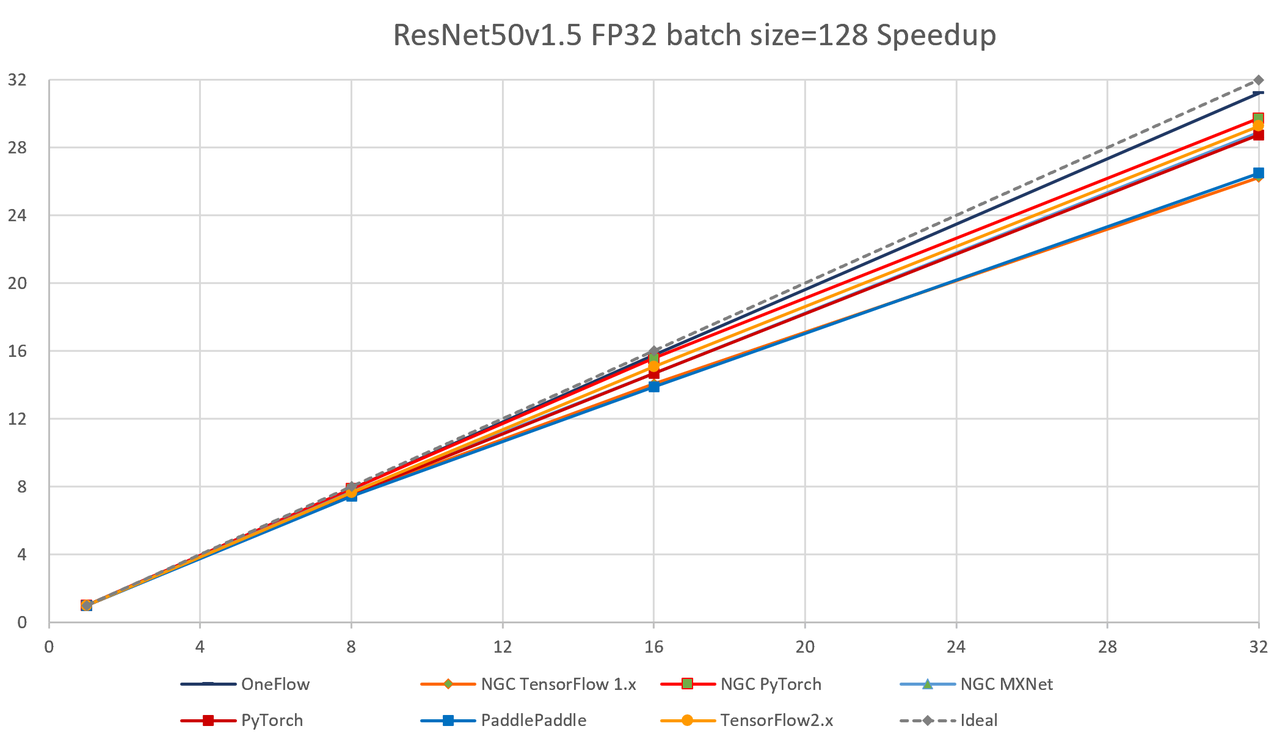
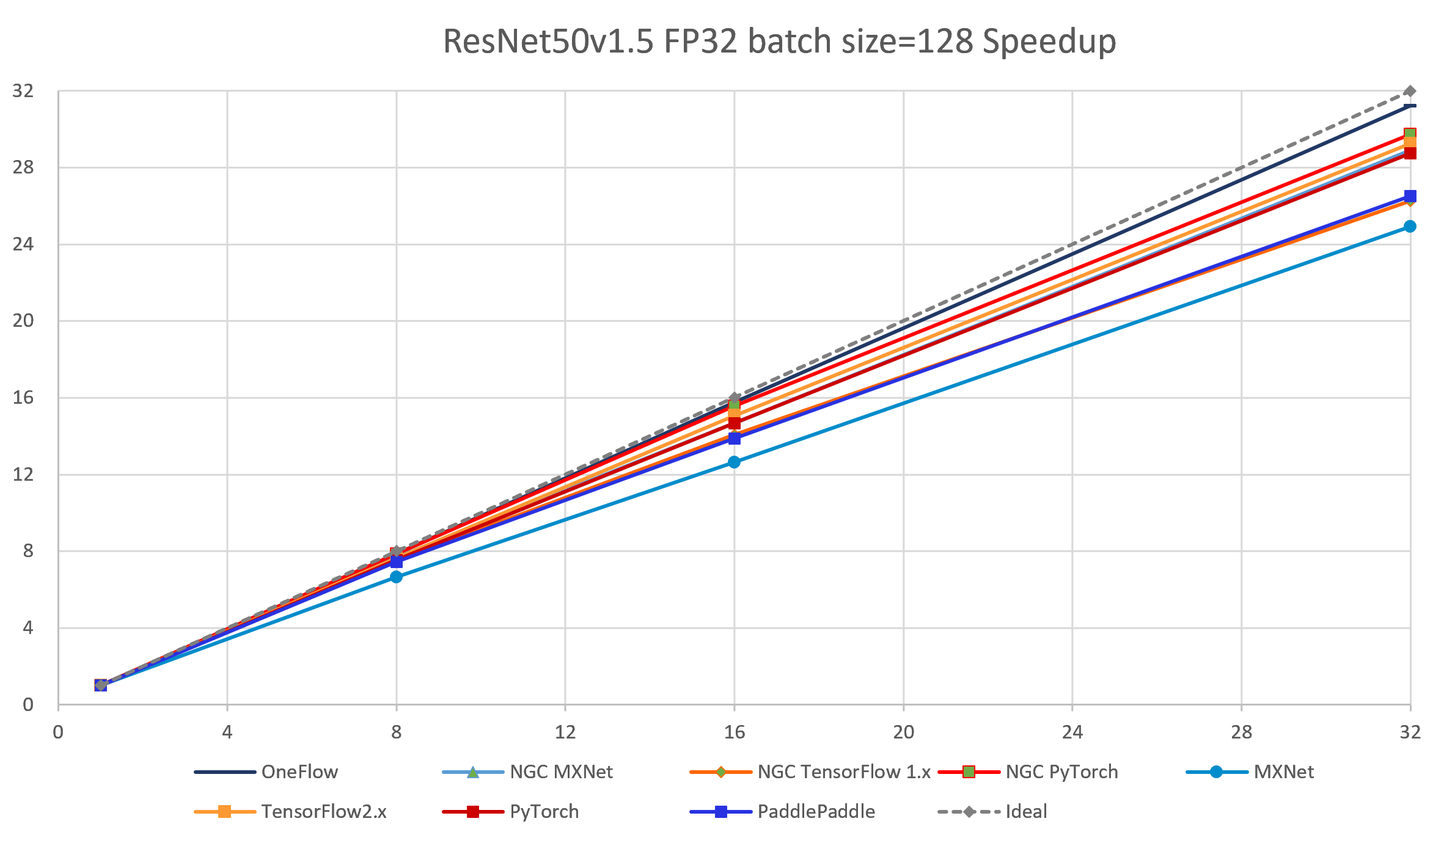
update MXNet official ResNet50 benchmark result in report

diff --git a/reports/dlperf_benchmark_test_report_v1.md b/reports/dlperf_benchmark_test_report_v1.md
@@ -44,25 +44,26 @@ Legend:
 
 ### ResNet50 V1.5
 
-| Framework                                                    | Version         | Docker From                             | DNN Model Sources                                            | Features             |
-| ------------------------------------------------------------ | --------------- | --------------------------------------- | ------------------------------------------------------------ | -------------------- |
-| [OneFlow](https://github.com/Oneflow-Inc/oneflow/tree/v0.2.0) | 0.2.0           | -                                       | [OneFlow-Benchmark](https://github.com/Oneflow-Inc/OneFlow-Benchmark/tree/v0.2.0/Classification/cnns) | official             |
-| [NGC TensorFlow 1.x](https://ngc.nvidia.com/catalog/containers/nvidia:tensorflow/tags) | 1.15.2          | nvcr.io/nvidia/tensorflow:20.03-tf1-py3 | [DeepLearningExamples/TensorFLow](https://github.com/NVIDIA/DeepLearningExamples/tree/fed7ba99cde958fda12c9e81d12b3d7e738e0590/TensorFlow/Classification/ConvNets/resnet50v1.5) | DALI+Horovod+XLA     |
-| [NGC PyTorch](https://ngc.nvidia.com/catalog/containers/nvidia:pytorch/tags) | 1.5.0a0+8f84ded | nvcr.io/nvidia/pytorch:20.03-py3        | [DeepLearningExamples/PyTorch](https://github.com/NVIDIA/DeepLearningExamples/tree/46ff3707e04683e41b79af0f94a74e45f8016786/PyTorch/Classification/ConvNets/resnet50v1.5) | DALI+APEX            |
-| [NGC MXNet](https://ngc.nvidia.com/catalog/containers/nvidia:mxnet/tags) | 1.6.0           | nvcr.io/nvidia/mxnet:20.03-py3          | [DeepLearningExamples/MxNet](https://github.com/NVIDIA/DeepLearningExamples/tree/e470c2150abf4179f873cabad23945bbc920cc5f/MxNet/Classification/RN50v1.5) | DALI+Horovod         |
-| [PyTorch](https://github.com/pytorch/pytorch/tree/v1.6.0)    | 1.6.0           | -                                       | [pytorch/examples](https://github.com/pytorch/examples/tree/4b119d735b802453479d739bf823f3f7d8d5d422/imagenet) | official             |
-| [PaddlePaddle](https://github.com/PaddlePaddle/Paddle/tree/v1.8.3) | 1.8.3.post107   | -                                       | [PaddleCV](https://github.com/PaddlePaddle/models/tree/release/1.8/PaddleCV/image_classification) | official / with DALI |
-| [TensorFlow 2.x](https://github.com/tensorflow/tensorflow/tree/v2.3.0) | 2.3.0           | -                                       | [TensorFlow-models](https://github.com/tensorflow/models/tree/r2.3.0/official/vision/image_classification) | official             |
+| Framework                                                    | Version         | Docker From                             | DNN Model Sources                                            | Features         |
+| ------------------------------------------------------------ | --------------- | --------------------------------------- | ------------------------------------------------------------ | ---------------- |
+| [OneFlow](https://github.com/Oneflow-Inc/oneflow/tree/v0.2.0) | 0.2.0           | -                                       | [OneFlow-Benchmark](https://github.com/Oneflow-Inc/OneFlow-Benchmark/tree/v0.2.0/Classification/cnns) | -                |
+| [NGC MXNet](https://ngc.nvidia.com/catalog/containers/nvidia:mxnet/tags) | 1.6.0           | nvcr.io/nvidia/mxnet:20.03-py3          | [DeepLearningExamples/MxNet](https://github.com/NVIDIA/DeepLearningExamples/tree/e470c2150abf4179f873cabad23945bbc920cc5f/MxNet/Classification/RN50v1.5) | DALI+Horovod     |
+| [NGC TensorFlow 1.x](https://ngc.nvidia.com/catalog/containers/nvidia:tensorflow/tags) | 1.15.2          | nvcr.io/nvidia/tensorflow:20.03-tf1-py3 | [DeepLearningExamples/TensorFLow](https://github.com/NVIDIA/DeepLearningExamples/tree/fed7ba99cde958fda12c9e81d12b3d7e738e0590/TensorFlow/Classification/ConvNets/resnet50v1.5) | DALI+Horovod+XLA |
+| [NGC PyTorch](https://ngc.nvidia.com/catalog/containers/nvidia:pytorch/tags) | 1.5.0a0+8f84ded | nvcr.io/nvidia/pytorch:20.03-py3        | [DeepLearningExamples/PyTorch](https://github.com/NVIDIA/DeepLearningExamples/tree/46ff3707e04683e41b79af0f94a74e45f8016786/PyTorch/Classification/ConvNets/resnet50v1.5) | DALI+APEX        |
+| [MXNet](https://github.com/apache/incubator-mxnet/releases/tag/1.6.0) | 1.6.0           | -                                       | [gluon-cv](https://github.com/dmlc/gluon-cv/blob/f9a8a284b8/scripts/classification/imagenet/README.md) | Horovod          |
+| [TensorFlow 2.x](https://github.com/tensorflow/tensorflow/tree/v2.3.0) | 2.3.0           | -                                       | [TensorFlow-models](https://github.com/tensorflow/models/tree/r2.3.0/official/vision/image_classification) | -                |
+| [PyTorch](https://github.com/pytorch/pytorch/tree/v1.6.0)    | 1.6.0           | -                                       | [pytorch/examples](https://github.com/pytorch/examples/tree/4b119d735b802453479d739bf823f3f7d8d5d422/imagenet) | -                |
+| [PaddlePaddle](https://github.com/PaddlePaddle/Paddle/tree/v1.8.3) | 1.8.3.post107   | -                                       | [PaddleCV](https://github.com/PaddlePaddle/models/tree/release/1.8/PaddleCV/image_classification) | DALI             |
 
 ### BERT Base Pretrain
 
 | Framework                                                    | Version         | Docker From                             | DNN Model Sources                                            | Features |
 | ------------------------------------------------------------ | --------------- | --------------------------------------- | ------------------------------------------------------------ | -------- |
-| [OneFlow](https://github.com/Oneflow-Inc/oneflow/tree/v0.2.0) | 0.2.0           | -                                       | [OneFlow-Benchmark](https://github.com/Oneflow-Inc/OneFlow-Benchmark/tree/v0.2.0/LanguageModeling/BERT) | official |
+| [OneFlow](https://github.com/Oneflow-Inc/oneflow/tree/v0.2.0) | 0.2.0           | -                                       | [OneFlow-Benchmark](https://github.com/Oneflow-Inc/OneFlow-Benchmark/tree/v0.2.0/LanguageModeling/BERT) | -        |
 | [NGC TensorFlow 1.x](https://ngc.nvidia.com/catalog/containers/nvidia:tensorflow/tags) | 1.15.2          | nvcr.io/nvidia/tensorflow:20.03-tf1-py3 | [DeepLearningExamples/TensorFlow](https://github.com/NVIDIA/DeepLearningExamples/tree/fed7ba99cde958fda12c9e81d12b3d7e738e0590/TensorFlow/LanguageModeling/BERT) | Horovod  |
 | [NGC PyTorch](https://ngc.nvidia.com/catalog/containers/nvidia:pytorch/tags) | 1.5.0a0+8f84ded | nvcr.io/nvidia/pytorch:20.03-py3        | [DeepLearningExamples/PyTorch](https://github.com/NVIDIA/DeepLearningExamples/tree/26c26761042c0e352238add07f0074e87ac66023/PyTorch/LanguageModeling/BERT) | APEX     |
 | [MXNet](https://github.com/apache/incubator-mxnet/tree/1.6.0) | 1.6.0           | -                                       | [gluon-nlp](https://github.com/dmlc/gluon-nlp/tree/7b7bf60259e28b3bf1f4d70569a7e5c18e2f4b3e/scripts/bert) | Horovod  |
-| [PaddlePaddle](https://github.com/PaddlePaddle/Paddle/tree/v1.8.3) | 1.8.3.post107   | -                                       | [PaddleNLP](https://github.com/PaddlePaddle/models/tree/release/1.8/PaddleNLP/pretrain_language_models/BERT) | official |
+| [PaddlePaddle](https://github.com/PaddlePaddle/Paddle/tree/v1.8.3) | 1.8.3.post107   | -                                       | [PaddleNLP](https://github.com/PaddlePaddle/models/tree/release/1.8/PaddleNLP/pretrain_language_models/BERT) | -        |
 
 P.S.  In features:
 
@@ -83,14 +84,14 @@ P.S.  In features:
 
 #### FP32, batch size = 128
 
-| node num | device num | [OneFlow](../OneFlow) | [NGC<br>TensorFlow 1.x](../NVIDIADeepLearningExamples/TensorFlow/Classification/ConvNets/resnet50v1.5) | [NGC<br>PyTorch](../NVIDIADeepLearningExamples/PyTorch/resnet50v1.5) | [NGC<br>MXNet](../NVIDIADeepLearningExamples/MxNet/Classification/RN50v1.5) | [PyTorch](../PyTorch/resnet50v1.5) | [PaddlePaddle](../PaddlePaddle/resnet50v1.5) | [TensorFlow 2.x](../TensorFlow/resnet50v1.5) |
-| -------- | ---------- | --------------------- | ------------------------------------------------------------ | ------------------------------------------------------------ | ------------------------------------------------------------ | ---------------------------------- | -------------------------------------------- | -------------------------------------------- |
-| 1        | 1          | 397.64                | 362.44                                                       | 367.29                                                       | 392.24                                                       | 348.62                             | 352.72                                       | 321.80                                       |
-| 1        | 8          | 3130.34               | 2721.98                                                      | 2887.65                                                      | 3006.98                                                      | 2632.93                            | 2625.38                                      | 2458.74                                      |
-| 2        | 16         | 6260.30               | 5099.42                                                      | 5716.79                                                      | 5758.49                                                      | 5115.40                            | 4895.27                                      | 4849.68                                      |
-| 4        | 32         | 12411.97              | 9514.64                                                      | 10917.09                                                     | 11331.93                                                     | 10021.29                           | 9348.17                                      | 9418.44                                      |
+| node num | device num | [OneFlow](../OneFlow) | [NGC<br/>MXNet](../NVIDIADeepLearningExamples/MxNet/Classification/RN50v1.5) | [NGC<br>TensorFlow 1.x](../NVIDIADeepLearningExamples/TensorFlow/Classification/ConvNets/resnet50v1.5) | [NGC<br>PyTorch](../NVIDIADeepLearningExamples/PyTorch/resnet50v1.5) | [MXNet](../MxNet/Classification/RN50v1b) | [TensorFlow 2.x](../TensorFlow/resnet50v1.5) | [PyTorch](../PyTorch/resnet50v1.5) | [PaddlePaddle](../PaddlePaddle/resnet50v1.5) |
+| -------- | ---------- | --------------------- | ------------------------------------------------------------ | ------------------------------------------------------------ | ------------------------------------------------------------ | ---------------------------------------- | -------------------------------------------- | ---------------------------------- | -------------------------------------------- |
+| 1        | 1          | 397.64                | 392.24                                                       | 362.44                                                       | 367.29                                                       | 384.19                                   | 321.80                                       | 348.62                             | 352.72                                       |
+| 1        | 8          | 3130.34               | 3006.98                                                      | 2721.98                                                      | 2887.65                                                      | 2556.03                                  | 2458.74                                      | 2632.93                            | 2625.38                                      |
+| 2        | 16         | 6260.30               | 5758.49                                                      | 5099.42                                                      | 5716.79                                                      | 4855.34                                  | 4849.68                                      | 5115.40                            | 4895.27                                      |
+| 4        | 32         | 12411.97              | 11331.93                                                     | 9514.64                                                      | 10917.09                                                     | 9579.74                                  | 9418.44                                      | 10021.29                           | 9348.17                                      |
 
-The following images show throughput and speedup of 6 implementations of ResNet50 V1.5.
+The following images show throughput and speedup of 8 implementations of ResNet50 V1.5.
 
 ![r50_fp32_bz128_throughput.png](imgs/r50_fp32_bz128_throughput.png)
 
@@ -98,14 +99,14 @@ The following images show throughput and speedup of 6 implementations of ResNet5
 
 #### AMP, batch size = 256
 
-| node num | device num | [OneFlow](../OneFlow) | [NGC<br>TensorFlow 1.x<br>bsz=224](../NVIDIADeepLearningExamples/TensorFlow/Classification/ConvNets/resnet50v1.5) | [NGC<br>TensorFlow 1.x<br>w/XLA<br>bsz=224](../NVIDIADeepLearningExamples/TensorFlow/Classification/ConvNets/resnet50v1.5) | [NGC<br>PyTorch](../NVIDIADeepLearningExamples/PyTorch/resnet50v1.5) | [NGC<br>MXNet](../NVIDIADeepLearningExamples/MxNet/Classification/RN50v1.5) | [PaddlePaddle<br>bsz=224](../PaddlePaddle/resnet50v1.5) | [PaddlePaddle<br>w/DALI<br>bsz=196](../PaddlePaddle/resnet50v1.5)<sup>[1]</sup> | [TensorFlow 2.x](../TensorFlow/resnet50v1.5) |
-| -------- | ---------- | --------------------- | ------------------------------------------------------------ | ------------------------------------------------------------ | ------------------------------------------------------------ | ------------------------------------------------------------ | ------------------------------------------------------- | ------------------------------------------------------------ | -------------------------------------------- |
-| 1        | 1          | 1472.72               | 945.18                                                       | 1198.55                                                      | 802.9                                                        | 1393.87                                                      | 1034.64                                                 | 887.17                                                       | 1075.27                                      |
-| 1        | 8          | 10629.32              | 6903.42                                                      | 8588.45                                                      | 6154.66                                                      | 9621.31                                                      | 4380.66                                                 | 6862.17                                                      | 6898.00                                      |
-| 2        | 16         | 17920.40              | 12021.09                                                     | 14931.03                                                     | 11991.94                                                     | 16219.03                                                     | 6358.43                                                 | 6018.46                                                      | 9870.15                                      |
-| 4        | 32         | 33141.02              | 24734.22                                                     | 29171.69                                                     | 22551.16                                                     | 30713.68                                                     | 10633.22                                                | 11617.57                                                     | 19314.31                                     |
+| node num | device num | [OneFlow](../OneFlow) | [NGC<br/>MXNet](../NVIDIADeepLearningExamples/MxNet/Classification/RN50v1.5) | [NGC<br>TensorFlow 1.x<br>w/XLA<br>bsz=224](../NVIDIADeepLearningExamples/TensorFlow/Classification/ConvNets/resnet50v1.5) | [NGC<br/>TensorFlow 1.x<br/>bsz=224](../NVIDIADeepLearningExamples/TensorFlow/Classification/ConvNets/resnet50v1.5) | [NGC<br>PyTorch](../NVIDIADeepLearningExamples/PyTorch/resnet50v1.5) | [MXNet](../MxNet/Classification/RN50v1b) | [TensorFlow 2.x](../TensorFlow/resnet50v1.5) | [PaddlePaddle<br/>w/DALI<br/>bsz=196](../PaddlePaddle/resnet50v1.5)<sup>[1]</sup> |
+| -------- | ---------- | --------------------- | ------------------------------------------------------------ | ------------------------------------------------------------ | ------------------------------------------------------------ | ------------------------------------------------------------ | ---------------------------------------- | -------------------------------------------- | ------------------------------------------------------------ |
+| 1        | 1          | 1472.72               | 1393.87                                                      | 1198.55                                                      | 945.18                                                       | 802.9                                                        | 833.65                                   | 1075.27                                      | 887.17                                                       |
+| 1        | 8          | 10629.32              | 9621.31                                                      | 8588.45                                                      | 6903.42                                                      | 6154.66                                                      | 2908.88                                  | 6898.00                                      | 6862.17                                                      |
+| 2        | 16         | 17920.40              | 16219.03                                                     | 14931.03                                                     | 12021.09                                                     | 11991.94                                                     | 5451.27                                  | 9870.15                                      | 6018.46                                                      |
+| 4        | 32         | 33141.02              | 30713.68                                                     | 29171.69                                                     | 24734.22                                                     | 22551.16                                                     | 10565.55                                 | 19314.31                                     | 11617.57                                                     |
 
-[1]: The AMP throughput 10633.22 img/s of PaddlePaddle is obtained with **bsz = 224** and **without DALI**, because when bsz = 256 OOM will be encountered. The throughput 11617.57 img/s is obtained with **bsz = 196** and **with** [**DALI-paddle plug-in**](https://github.com/PaddlePaddle/models/tree/release/1.8/PaddleCV/image_classification#dali预处理) because using DALI will occupy more GPU device memory, so bsz = 224 or 256 both encounters OOM. The official data [28594 img/s](https://github.com/PaddlePaddle/models/tree/release/1.8/PaddleCV/image_classification#混合精度训练) provided by PaddlePaddle is tested on **V100 32G** and the PaddlePaddle docker image with DALI not released, so we cannot replicate this result. If anyone can help us improve PaddlePaddle test results, please contact us by issue.
+[1]: The throughput 11617.57 img/s is obtained with **bsz = 196** and **with** [**DALI-paddle plug-in**](https://github.com/PaddlePaddle/models/tree/release/1.8/PaddleCV/image_classification#dali预处理) because using DALI will occupy more GPU device memory, so bsz = 224 or 256 both encounters OOM. The official data [28594 img/s](https://github.com/PaddlePaddle/models/tree/release/1.8/PaddleCV/image_classification#混合精度训练) provided by PaddlePaddle is tested on **V100 32G** and the PaddlePaddle docker image with DALI not released, so we cannot replicate this result. If anyone can help us improve PaddlePaddle test results, please contact us by issue.
 
 ![r50_amp_bz256_throughput.png](imgs/r50_amp_bz256_throughput.png)
 

diff --git a/README.md b/README.md
@@ -82,7 +82,7 @@ To get a continuous and stable output, first several training steps are ignored.
 - `PaddlePaddle/`: holds the reproducible scripts and test reports for DNN models from [PaddlePaddle official benchmark](https://github.com/PaddlePaddle/models/tree/release/1.8);  
 - `TensorFlow/`: holds the reproducible scripts and test reports for DNN models from [TensorFlow 2.x official benchmark](https://github.com/tensorflow/models/tree/r2.3.0);
 - `PyTorch/`: holds the reproducible scripts and test reports for DNN models from [PyTorch official benchmark](https://github.com/PyTorch/examples/tree/49ec0bd72b85be55579ae8ceb278c66145f593e1);
-- `MxNet/`: holds the reproducible scripts and test reports for DNN models from [gluon-nlp](https://github.com/dmlc/gluon-nlp) repo;
+- `MxNet/`: holds the reproducible scripts and test reports for DNN models from [gluon-nlp](https://github.com/dmlc/gluon-nlp)  and [gluon-cv](https://github.com/dmlc/gluon-cv);
 - `reports`: holds rounds of DNN's benchmark test reports.
 
 ## Summary of Latest Test Results
@@ -106,16 +106,17 @@ This difference makes ResNet50 v1.5 slightly more accurate (~0.5% top1) than v1,
 | Framework                                                    | Source                                                       | FP32 throughput<br>(img/s)  bsz=128                          | FP32 speedup<br>bsz=128 | AMP throughput<br>(img/s) bsz=256                   | AMP speedup<br>bsz=256         |
 | :----------------------------------------------------------- | ------------------------------------------------------------ | ------------------------------------------------------------ | ----------------------- | --------------------------------------------------- | ------------------------------ |
 | [OneFlow](https://github.com/Oneflow-Inc/oneflow/tree/v0.2.0) | [OneFlow-Benchmark](https://github.com/Oneflow-Inc/OneFlow-Benchmark/tree/v0.2.0/Classification/cnns) | [12411.97](./OneFlow)                                        | 31.21                   | 33141.02                                            | 22.50                          |
+| [NGC MXNet](https://ngc.nvidia.com/catalog/containers/nvidia:mxnet/tags) | [NVIDIA-DeepLearningExamples](https://github.com/NVIDIA/DeepLearningExamples/tree/e470c2150abf4179f873cabad23945bbc920cc5f/MxNet/Classification/RN50v1.5) | [11233.92](./NVIDIADeepLearningExamples/MxNet/Classification/RN50v1.5) | 28.67                   | 30713.68                                            | 22.03                          |
 | [NGC TensorFlow 1.x](https://ngc.nvidia.com/catalog/containers/nvidia:tensorflow/tags) | [NVIDIA-DeepLearningExamples](https://github.com/NVIDIA/DeepLearningExamples/tree/fed7ba99cde958fda12c9e81d12b3d7e738e0590/TensorFlow/Classification/ConvNets/resnet50v1.5) | [9514.64](./NVIDIADeepLearningExamples/TensorFlow/Classification/ConvNets/resnet50v1.5) | 26.25                   | <sup>[1]</sup>29171.69<sup>w/XLA</sup><br>24734.22  | 24.34<sup>w/XLA</sup><br>26.17 |
 | [NGC PyTorch](https://ngc.nvidia.com/catalog/containers/nvidia:pytorch/tags) | [NVIDIA-DeepLearningExamples](https://github.com/NVIDIA/DeepLearningExamples/tree/5cc03caa153faab7a2c3b1b5b5d63663f06ce1b4/PyTorch/Classification/ConvNets/resnet50v1.5) | [10917.09](./NVIDIADeepLearningExamples/PyTorch/resnet50v1.5) | 29.72                   | 22551.16                                            | 28.09                          |
-| [NGC MXNet](https://ngc.nvidia.com/catalog/containers/nvidia:mxnet/tags) | [NVIDIA-DeepLearningExamples](https://github.com/NVIDIA/DeepLearningExamples/tree/e470c2150abf4179f873cabad23945bbc920cc5f/MxNet/Classification/RN50v1.5) | [11233.92](./NVIDIADeepLearningExamples/MxNet/Classification/RN50v1.5) | 28.67                   | 30713.68                                            | 22.03                          |
+| [MXNet](https://github.com/apache/incubator-mxnet/releases/tag/1.6.0) | [gluon-cv](https://github.com/dmlc/gluon-cv/blob/f9a8a284b8/scripts/classification/imagenet/README.md) | [9579.74](./MxNet/Classification/RN50v1b)                    | 24.93                   | 10565.55                                            | 12.67                          |
+| [TensorFlow 2.x](https://github.com/tensorflow/tensorflow/tree/v2.3.0) | [TensorFlow-models](https://github.com/tensorflow/models/tree/r2.3.0/official/vision/image_classification) | [9418.44](./TensorFlow/resnet50v1.5)                         | 29.27                   | 19314.31                                            | 17.96                          |
 | [PyTorch](https://github.com/pytorch/pytorch/tree/v1.6.0)    | [PyTorch-examples](https://github.com/PyTorch/examples/tree/49ec0bd72b85be55579ae8ceb278c66145f593e1/imagenet) | [10021.29](./PyTorch/resnet50v1.5)                           | 28.75                   | <sup>[2]</sup> -                                    | -                              |
 | [PaddlePaddle](https://github.com/PaddlePaddle/Paddle/tree/v1.8.3) | [PaddleCV](https://github.com/PaddlePaddle/models/tree/release/1.8/PaddleCV/image_classification) | [9348.17](./PaddlePaddle/resnet50v1.5)                       | 26.50                   | <sup>[3]</sup>10633.22<br>11617.57<sup>w/DALI</sup> | 10.2<br>13.1<sup>w/DALI</sup>  |
-| [TensorFlow 2.x](https://github.com/tensorflow/tensorflow/tree/v2.3.0) | [TensorFlow-models](https://github.com/tensorflow/models/tree/r2.3.0/official/vision/image_classification) | [9418.44](./TensorFlow/resnet50v1.5)                         | 29.27                   | 19314.31                                            | 17.96                          |
 
 [1]:  AMP throughput of TensorFlow 1.x is obtained **with** or **without** XLA and using **bsz = 224**, because when bsz = 256 OOM (out of memory) will be encountered.
 
-[2]: The PyTorch official benchmark repository [PyTorch-examples](https://github.com/pytorch/examples/tree/49ec0bd72b85be55579ae8ceb278c66145f593e1) does **NOT** support AMP.
+[2]: The PyTorch official benchmark repository [PyTorch-examples](https://github.com/pytorch/examples/tree/49ec0bd72b85be55579ae8ceb278c66145f593e1) does **NOT** support AMP, we will use [NVIDIA-APEX](https://github.com/NVIDIA/apex) plug-in for testing in the near future.
 
 [3]: The AMP throughput 10633.22 img/s of PaddlePaddle is obtained with **bsz = 224** and **without DALI**, because when bsz = 256 OOM will be encountered. The throughput 11617.57 img/s is obtained with **bsz = 196** and **with** [**DALI-paddle plug-in**](https://github.com/PaddlePaddle/models/tree/release/1.8/PaddleCV/image_classification#dali预处理) because using DALI will occupy more GPU device memory, so bsz = 224 or 256 both encounters OOM. The official data [28594 img/s](https://github.com/PaddlePaddle/models/tree/release/1.8/PaddleCV/image_classification#混合精度训练) provided by PaddlePaddle is tested on **V100 32G** and the PaddlePaddle docker image with DALI not released, so we cannot replicate this result. If anyone can help us improve PaddlePaddle test results, please contact us by issue.
 
